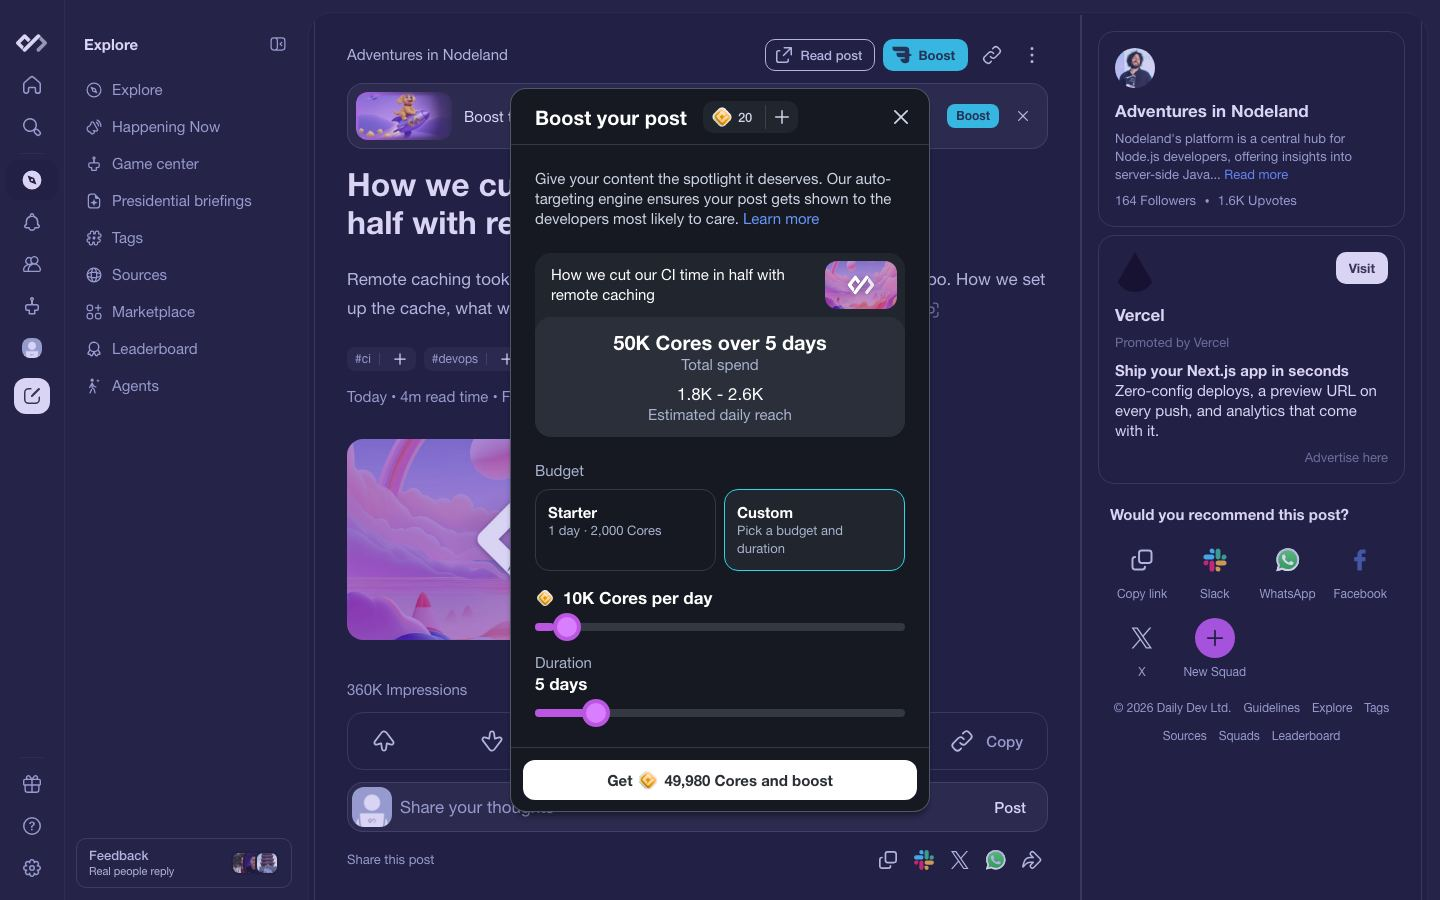
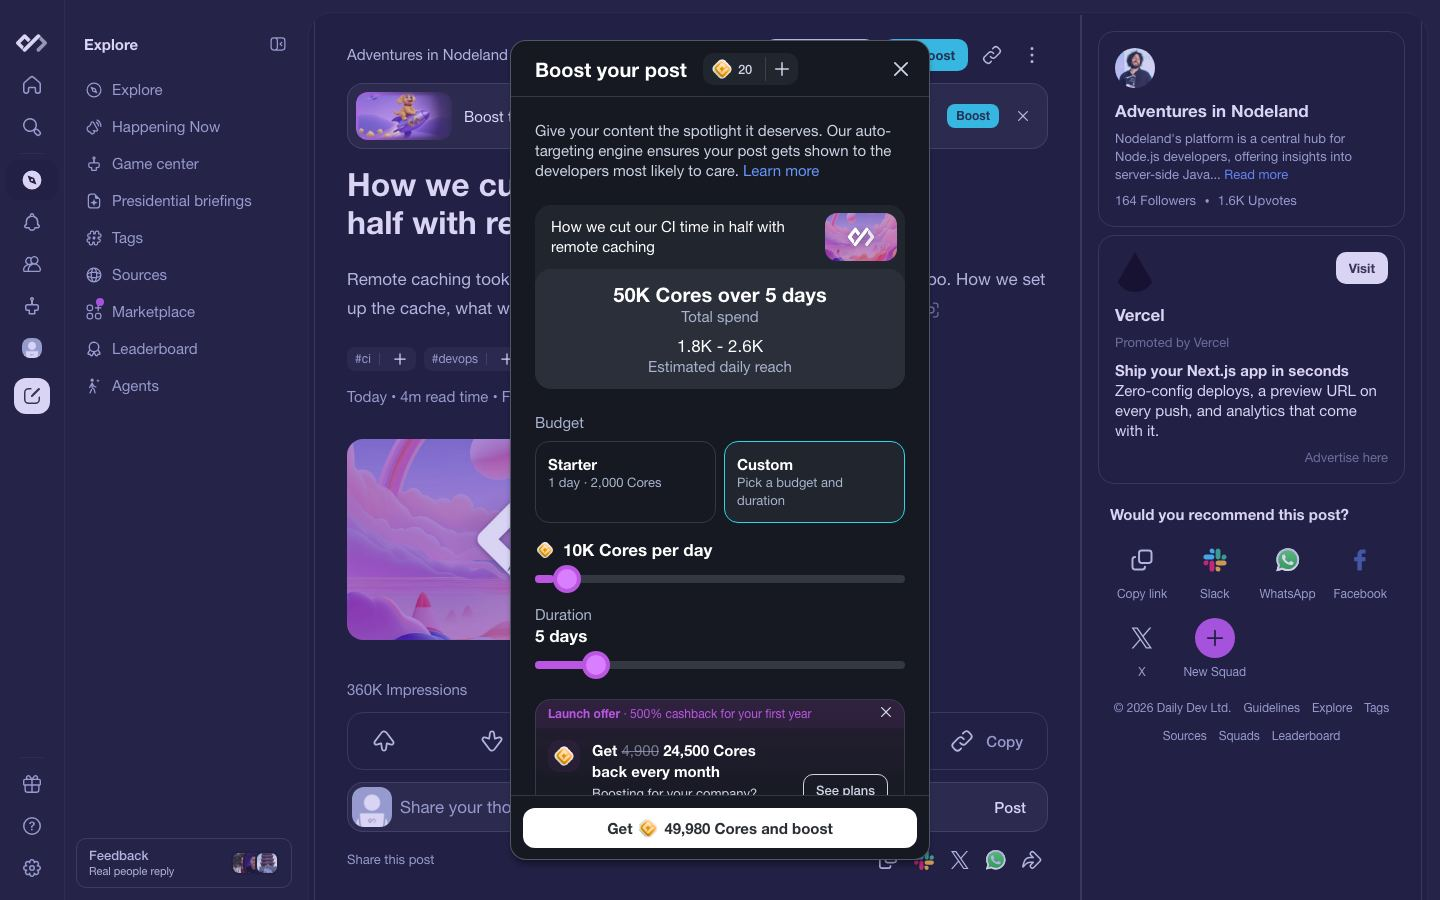
chore(storybook): Cores & Boost picks up the Startups promos from production
Merged main; the boost form and Buy Cores (when a boost opened it) now
show StartupsBoostPromo and StartupsBuyCoresPromo in Flows and Redesign,
with the startups_checkout flag and launch cashback mocked. Comparison
screenshots for the first boost re-shot.

Changed region(s): [[0.3438, 0.0311, 0.6562, 0.9644]]

diff --git a/packages/storybook/stories/cores-boost/flows/purchase/BoostFixed.tsx b/packages/storybook/stories/cores-boost/flows/purchase/BoostFixed.tsx
@@ -27,6 +27,7 @@ import { Loader } from '@dailydotdev/shared/src/components/Loader';
 import { TooltipArrow } from '@dailydotdev/shared/src/svg/TooltipArrow';
 import { ActionSuccessModal } from '@dailydotdev/shared/src/components/modals/utils/ActionSuccessModal';
 import { BoostWalletPicker } from '@dailydotdev/shared/src/features/boost/BoostWalletPicker';
+import { StartupsBoostPromo } from '@dailydotdev/shared/src/features/squads/components/promos/StartupsPromo';
 import { useBoostWallet } from '@dailydotdev/shared/src/features/boost/useBoostWallet';
 import { usePostBoostEstimation } from '@dailydotdev/shared/src/features/boost/usePostBoostEstimation';
 import { useFeaturesReadyContext } from '@dailydotdev/shared/src/components/GrowthBookProvider';
@@ -217,9 +218,9 @@ export const BoostPostFixedModal = ({
   const [updateEstimate] = useDebounceFn(setEstimate, 400);
   const totalSpendInt = budget.coresPerDay * budget.totalDays;
   const totalSpend = largeNumberFormat(totalSpendInt);
-  const { squadWallet, wallet, setWallet, balance } = useBoostWallet(
-    post.source?.type === SourceType.Squad ? post.source.id : undefined,
-  );
+  const squadId =
+    post.source?.type === SourceType.Squad ? post.source.id : undefined;
+  const { squadWallet, wallet, setWallet, balance } = useBoostWallet(squadId);
   const { estimatedReach, canBoost, isLoading } = usePostBoostEstimation({
     post,
     query: { budget: estimate },
@@ -426,6 +427,7 @@ export const BoostPostFixedModal = ({
             totalSpend={totalSpendInt}
           />
         )}
+        <StartupsBoostPromo sourceId={squadId} />
       </Modal.Body>
       <Modal.Footer>
         <Button

diff --git a/packages/storybook/stories/cores-boost/redesign/purchase/BoostRedesign.tsx b/packages/storybook/stories/cores-boost/redesign/purchase/BoostRedesign.tsx
@@ -28,6 +28,7 @@ import { Image } from '@dailydotdev/shared/src/components/image/Image';
 import { Loader } from '@dailydotdev/shared/src/components/Loader';
 import { ModalClose } from '@dailydotdev/shared/src/components/modals/common/ModalClose';
 import { BoostWalletPicker } from '@dailydotdev/shared/src/features/boost/BoostWalletPicker';
+import { StartupsBoostPromo } from '@dailydotdev/shared/src/features/squads/components/promos/StartupsPromo';
 import { useBoostWallet } from '@dailydotdev/shared/src/features/boost/useBoostWallet';
 import { usePostBoostEstimation } from '@dailydotdev/shared/src/features/boost/usePostBoostEstimation';
 import { useFeaturesReadyContext } from '@dailydotdev/shared/src/components/GrowthBookProvider';
@@ -251,9 +252,9 @@ export const BoostPostRedesignModal = ({
   const [updateEstimate] = useDebounceFn(setEstimate, 400);
   const totalSpendInt = budget.coresPerDay * budget.totalDays;
   const totalSpend = largeNumberFormat(totalSpendInt);
-  const { squadWallet, wallet, setWallet, balance } = useBoostWallet(
-    post.source?.type === SourceType.Squad ? post.source.id : undefined,
-  );
+  const squadId =
+    post.source?.type === SourceType.Squad ? post.source.id : undefined;
+  const { squadWallet, wallet, setWallet, balance } = useBoostWallet(squadId);
   const { estimatedReach, canBoost, isLoading } = usePostBoostEstimation({
     post,
     query: { budget: estimate },
@@ -466,6 +467,7 @@ export const BoostPostRedesignModal = ({
             totalSpend={totalSpendInt}
           />
         )}
+        <StartupsBoostPromo sourceId={squadId} />
       </Modal.Body>
       <Modal.Footer>
         <Button

diff --git a/packages/storybook/stories/cores-boost/redesign/purchase/BuyCoresRedesign.tsx b/packages/storybook/stories/cores-boost/redesign/purchase/BuyCoresRedesign.tsx
@@ -38,6 +38,7 @@ import type { CoresPurpose } from '../../flows/purchase/BuyCoresFixed';
 import { NeededCopy } from '../../flows/purchase/BuyCoresFixed';
 import friendshipArt from '../../assets/cores-checkout-friendship.png';
 import { CoreHalo, Row } from './kit';
+import { StartupsBuyCoresPromo } from '@dailydotdev/shared/src/features/squads/components/promos/StartupsPromo';
 
 // BuyCoresFixedModal (flows/purchase/BuyCoresFixed.tsx) in the redesign's
 // line. Same packs, preselection, copy and actions; new: a "what it's for"
@@ -240,6 +241,7 @@ export const BuyCoresRedesignModal = ({
         awardName={product?.name}
         selected={selected}
       />
+      {purpose === 'boost' && <StartupsBuyCoresPromo />}
       <div className="flex flex-col gap-2">
         <Typography type={TypographyType.Callout} bold>
           Choose how many Cores to buy

diff --git a/packages/storybook/stories/cores-boost/flows/purchase/BuyCoresFixed.tsx b/packages/storybook/stories/cores-boost/flows/purchase/BuyCoresFixed.tsx
@@ -38,6 +38,7 @@ import { Origin } from '@dailydotdev/shared/src/lib/log';
 import { formatCoresCurrency } from '@dailydotdev/shared/src/lib/utils';
 import { walletUrl } from '@dailydotdev/shared/src/lib/constants';
 import { noop } from '../../real/providers';
+import { StartupsBuyCoresPromo } from '@dailydotdev/shared/src/features/squads/components/promos/StartupsPromo';
 
 // Fixed copy of BuyCoresModal (components/modals/award/BuyCoresModal.tsx).
 // Changed: the smallest pack covering the shortfall is preselected on every
@@ -207,6 +208,11 @@ export const BuyCoresFixedModal = ({
         awardName={awardName}
         selected={selectedProduct}
       />
+      {purpose === 'boost' && (
+        <div className="mt-4">
+          <StartupsBuyCoresPromo />
+        </div>
+      )}
       <CoreOptionList />
     </div>
   );

diff --git a/packages/storybook/stories/cores-boost/real/handlers.ts b/packages/storybook/stories/cores-boost/real/handlers.ts
@@ -249,6 +249,18 @@ export const coresHandlers = ({
           },
     }),
   ),
+  // daily.dev for Startups promos: none dismissed, the launch cashback on
+  graphql.query('CompletedUserActions', () =>
+    HttpResponse.json({ data: { actions: [] } }),
+  ),
+  graphql.mutation('CompleteAction', () =>
+    HttpResponse.json({ data: { completeAction: { _: true } } }),
+  ),
+  graphql.query('StartupsCashbackPromo', () =>
+    HttpResponse.json({
+      data: { startupsCashbackPromo: { percentage: 500, months: 12 } },
+    }),
+  ),
   // The real pages behind the screens: the home feed and the post page
   ...homeFeedHandlers,
   ...postPageHandlers,

diff --git a/packages/storybook/stories/cores-boost/real/providers.tsx b/packages/storybook/stories/cores-boost/real/providers.tsx
@@ -35,6 +35,8 @@ export const productionFlags: Record<string, unknown> = {
   cores: true,
   post_boost_ads: true,
   cores_pricing_ids: 'cores_default',
+  // daily.dev for Startups promos in the boost form and Buy Cores (#7296)
+  startups_checkout: true,
   boost_settings: {
     min: 5000,
     max: 100000,
